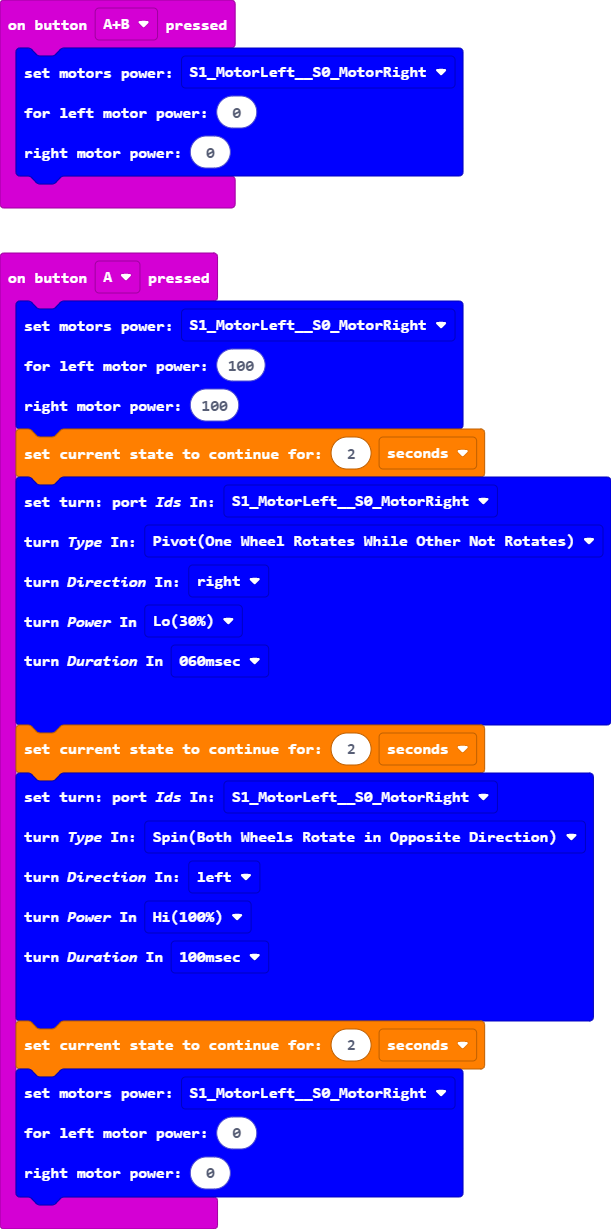
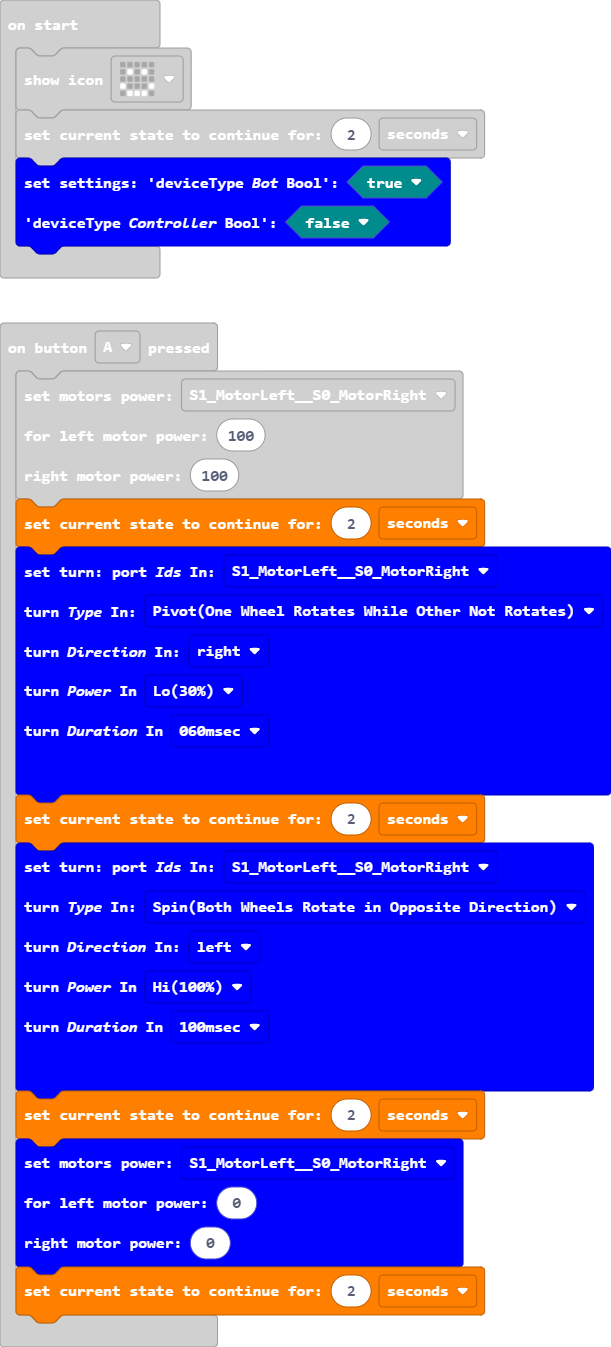
23-0226-0230 lighter blue for hardware blocks, more fixes

diff --git a/custom.ts b/custom.ts
@@ -577,11 +577,12 @@ namespace quest_Note_4 {
     }
 }
 
-
+// light blue rgb(127, 190, 255) #7fbeff
+// * not too dark since would cover thin-black-boundaries
 /**
  * quest_Hardware blocks
  */
-//% weight=51 color=#0000FF icon="Q"
+//% weight=51 color=#7fbeff icon="Q"
 namespace quest_Hardware {
     //
     // * Global Variables Q Constants
@@ -740,25 +741,9 @@ namespace quest_Hardware {
                 }
         }
     
-        // Motor-Left Conversion: Same Rotational Direction
-        motor_Power_L = Math.map(motor_Power_L, -100, 100, 0, 360)
-        // Motor-Right Conversion: Opposite Rotational Direction
-        motor_Power_R = Math.map(motor_Power_R, -100, 100, 360, 0)
-
-        switch (port_Ids_In) {
-            case rq_PortGroup_BlueRedBlack_PortIds_Enum.S1_MotorLeft__S0_MotorRight:
-                wuKong.setServoAngle(wuKong.ServoTypeList._360, wuKong.ServoList.S1, motor_Power_L)
-                wuKong.setServoAngle(wuKong.ServoTypeList._360, wuKong.ServoList.S0, motor_Power_R)
-                break
-            case rq_PortGroup_BlueRedBlack_PortIds_Enum.S3_MotorLeft__S2_MotorRight:
-                wuKong.setServoAngle(wuKong.ServoTypeList._360, wuKong.ServoList.S3, motor_Power_L)
-                wuKong.setServoAngle(wuKong.ServoTypeList._360, wuKong.ServoList.S2, motor_Power_R)
-                break
-        }
-
         switch (turn_Duration_In) {
             case turn_Duration_Small_Enum.msec_020:
-                turn_Duration = 20    
+                turn_Duration = 20
                 break
             case turn_Duration_Small_Enum.msec_040:
                 turn_Duration = 40
@@ -777,12 +762,27 @@ namespace quest_Hardware {
         // temp TODO
         turn_Duration *= 100
 
-        quest_Hardware.rq_Set_PowerMotorsViaBlueRedBlackPins_Fn(rq_PortGroup_BlueRedBlack_PortIds_Enum.S1_MotorLeft__S0_MotorRight, motor_Power_L, motor_Power_R)
+        // Motor-Left Conversion: Same Rotational Direction
+        motor_Power_L = Math.map(motor_Power_L, -100, 100, 0, 360)
+        // Motor-Right Conversion: Opposite Rotational Direction
+        motor_Power_R = Math.map(motor_Power_R, -100, 100, 360, 0)
+
+        /// jwc> switch (port_Ids_In) {
+        ///    case rq_PortGroup_BlueRedBlack_PortIds_Enum.S1_MotorLeft__S0_MotorRight:
+        ///        wuKong.setServoAngle(wuKong.ServoTypeList._360, wuKong.ServoList.S1, motor_Power_L)
+        ///        wuKong.setServoAngle(wuKong.ServoTypeList._360, wuKong.ServoList.S0, motor_Power_R)
+        ///        break
+        ///    case rq_PortGroup_BlueRedBlack_PortIds_Enum.S3_MotorLeft__S2_MotorRight:
+        ///        wuKong.setServoAngle(wuKong.ServoTypeList._360, wuKong.ServoList.S3, motor_Power_L)
+        ///        wuKong.setServoAngle(wuKong.ServoTypeList._360, wuKong.ServoList.S2, motor_Power_R)
+        ///        break
+        /// < jwc }
+
+
+        quest_Hardware.rq_Set_PowerMotorsViaBlueRedBlackPins_Fn(port_Ids_In, motor_Power_L, motor_Power_R)
         quest_Timer.rq_Set_ContinueCurrentState_CountdownTimer_Fn(turn_Duration, rq_Time_Units_Enum.Milliseconds)
         
-        quest_Hardware.rq_Set_PowerMotorsViaBlueRedBlackPins_Fn(rq_PortGroup_BlueRedBlack_PortIds_Enum.S1_MotorLeft__S0_MotorRight, 0, 0)
-        quest_Timer.rq_Set_ContinueCurrentState_CountdownTimer_Fn(0, rq_Time_Units_Enum.Seconds)
-
+        quest_Hardware.rq_Set_PowerMotorsViaBlueRedBlackPins_Fn(port_Ids_In, 0, 0)
 
         basic.showIcon(IconNames.Heart)
 

diff --git a/main.ts b/main.ts
@@ -26,6 +26,7 @@ input.onButtonPressed(Button.A, function () {
     0,
     0
     )
+    quest_Timer.rq_Set_ContinueCurrentState_CountdownTimer_Fn(2, rq_Time_Units_Enum.Seconds)
 })
 input.onButtonPressed(Button.AB, function () {
     quest_Hardware.rq_Set_PowerMotorsViaBlueRedBlackPins_Fn(
@@ -36,6 +37,10 @@ input.onButtonPressed(Button.AB, function () {
 })
 basic.showIcon(IconNames.Happy)
 quest_Timer.rq_Set_ContinueCurrentState_CountdownTimer_Fn(2, rq_Time_Units_Enum.Seconds)
+quest_Hardware.set_Settings_Fn(
+true,
+false
+)
 basic.forever(function () {
     quest_Note_1.rq_Show_String_For_Note_Big_Fn(
     "1"
